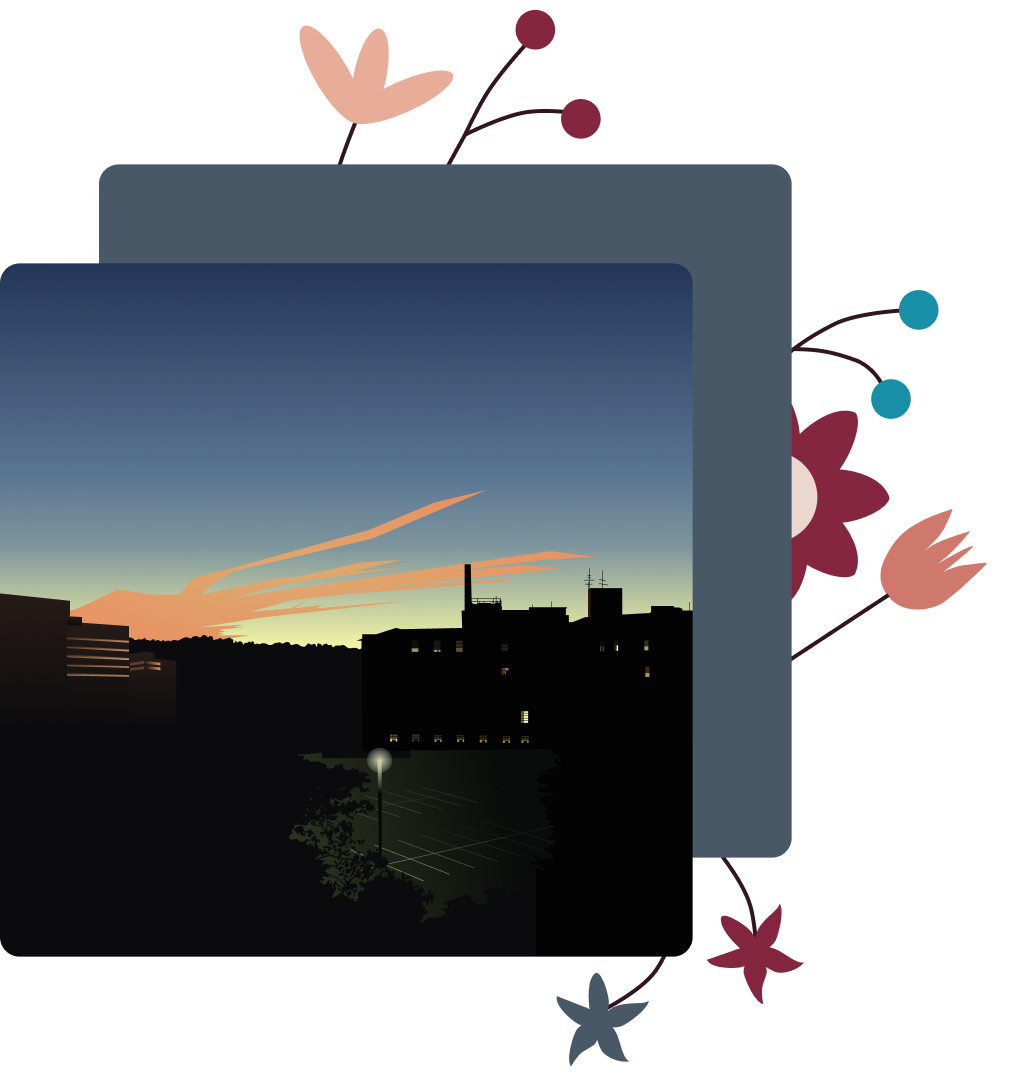
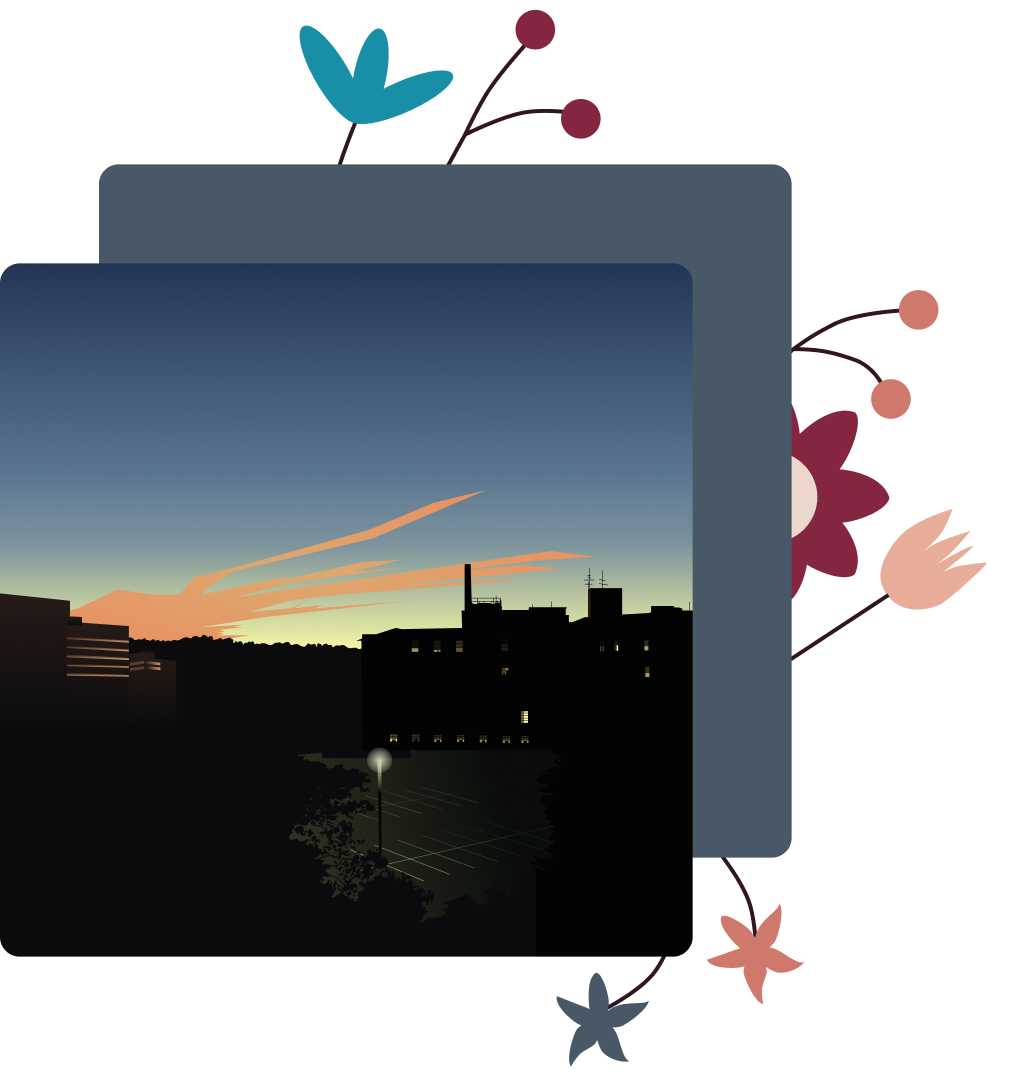
Styling revamp & color palette switched

diff --git a/index.html b/index.html
@@ -5,42 +5,46 @@
   <meta charset="UTF-8" />
   <meta name="viewport" content="width=device-width, initial-scale=1" />
   <title>Anna Nguyen</title>
-
+  <link rel="icon" type="image/png" href="/images/logo.png"/>
   <link rel="stylesheet" type="text/css" href="./styles/style.css" media="all" />
 </head>
 <body>
-  <nav>
-    <a href="index.html"><img src="./images/sig.png" id="logo" /></a>
-    <div class="links">
-      <a href="about.html">ABOUT</a>
-      <a href="resume.html">RESUME</a>
-    </div>
-  </nav>
-
-  <main>
-    <header>
-      <img src="./images/self.png" />
-      <section>
-        <h3>HEY THERE, I'M</h3>
-        <h1 id="name">ANNA NGUYEN</h1>
-        <p>
-          A CS + Design student @ Cornell University 
-          dedicated to empowering myself and others 
-          through the intersections of design, tech, 
-          and socia impact, particularly youth 
-          empowerment despite socioeconomic 
-          disparities in education.
-        </p>
-        <p><a href="mailto:axn3@cornell.edu" id="email">axn3@cornell.edu</a></p>
-        <div class="socials">
-          <a href="https://github.com/axnguyen9"><img src="./icons/github.png" /></a>
-          <a href="https://www.linkedin.com/in/axnguyen/"><img src="./icons/linkedin.png" /></a>
-          <a href="https://medium.com/@axn3"><img src="./icons/medium.png" /></a>
-          <a href="https://www.instagram.com/missbanannamilk/"><img src="./icons/instagram.png" /></a>
+  <div class="clouds-container">
+    <div class="gradient-container">
+      <nav>
+        <a href="index.html"><img src="./images/sig.png" id="logo" /></a>
+        <div class="links">
+          <a href="about.html">ABOUT</a>
+          <a href="resume.html">RESUME</a>
         </div>
-      </section>
-    </header>
+      </nav>
     
+      <header>
+        <img src="./images/self.png" />
+        <section>
+          <h3 class="light-pink">HEY THERE, I'M</h3>
+          <h1 id="name">ANNA NGUYEN</h1>
+          <p class="light-pink">
+            A CS + Design student @ Cornell University 
+            dedicated to empowering myself and others 
+            through the intersections of design, tech, 
+            and socia impact, particularly youth 
+            empowerment despite socioeconomic 
+            disparities in education.
+          </p>
+          <p><a href="mailto:axn3@cornell.edu" id="email" class="light-pink">axn3@cornell.edu</a></p>
+          <div class="socials">
+            <a href="https://github.com/axnguyen9"><img src="./icons/github.png" /></a>
+            <a href="https://www.linkedin.com/in/axnguyen/"><img src="./icons/linkedin.png" /></a>
+            <a href="https://www.instagram.com/missbanannamilk/"><img src="./icons/instagram.png" /></a>
+          </div>
+        </section>
+      </header>
+    </div>
+    <img src="./images/clouds.png" id="clouds" />
+  </div>
+  
+  <main>
     <!-- project cards -->
     <section class="cards">
       <div class="card-container">
@@ -99,7 +103,6 @@
         </div>
       </div>
     </section>
-
   </main>
 </body>
 </html>

diff --git a/about.html b/about.html
@@ -5,38 +5,44 @@
   <meta charset="UTF-8" />
   <meta name="viewport" content="width=device-width, initial-scale=1" />
   <title>Anna Nguyen</title>
-
+  <link rel="icon" type="image/png" href="/images/logo.png"/>
   <link rel="stylesheet" type="text/css" href="./styles/style.css" media="all" />
 </head>
 <body>
-  <nav>
-    <a href="index.html"><img src="./images/sig.png" id="logo" /></a>
-    <div class="links">
-      <a href="about.html" id="current">ABOUT</a>
-      <a href="resume.html">RESUME</a>
+
+  <div class="clouds-container">
+    <div class="gradient-container">
+      <nav>
+        <a href="index.html"><img src="./images/sig.png" id="logo" /></a>
+        <div class="links">
+          <a href="about.html" id="current">ABOUT</a>
+          <a href="resume.html">RESUME</a>
+        </div>
+      </nav>
+
+      <header>
+        <img src="./images/skyline.png" />
+        <section>
+          <h3 class="light-pink">STATUS:</h3>
+          <h1 id="name">STRIVING & THRIVING</h1>
+          <p class="light-pink">
+            Just happy to connect with and help people 
+            thrive while growing as an individual myself ☺
+            Some fun facts about me:
+            <ul class="light-pink">
+              <li>city girl at heart</li>
+              <li>skincare addict</li>
+              <li>fashionista & fashion minor</li>
+              <li>my great-grandma was a part of Vietnamese royalty (supposedly) 🤔</li>
+            </ul>
+          </p>
+        </section>
+      </header>
     </div>
-  </nav>
-
+    <img src="./images/clouds.png" id="clouds" />
+  </div>
+  
   <main>
-    <header>
-      <img src="./images/skyline.png" />
-      <section>
-        <h3>STATUS:</h3>
-        <h1 id="name">STRIVING & THRIVING</h1>
-        <p>
-          Just happy to connect with and help people 
-          thrive while growing as an individual myself ☺
-          Some fun facts about me:
-          <ul>
-            <li>city girl at heart</li>
-            <li>skincare addict</li>
-            <li>fashionista & fashion minor</li>
-            <li>my great-grandma was a part of Vietnamese royalty</li>
-          </ul>
-        </p>
-      </section>
-    </header>
-
     <section>
       <h1>I'M INVOLVED IN:</h1>
       <div class="organizations">

diff --git a/styles/style.css b/styles/style.css
@@ -40,15 +40,21 @@
 }
 
 body {
+  margin: 0;
   background-color: #F5F5F5;
 }
 
 main {
+  margin: 15% 10% 10% 10%;
+}
+
+header {
   margin: 2.5% 10%;
 }
 
 /* typography guide */
 h1 {
+  margin: 1rem 0;
   font-family: 'Karla', sans-serif;
   font-weight: bold;
   font-size: 4rem;
@@ -89,6 +95,11 @@ li {
   font-size: 1.125rem;
 }
 
+.light-pink {
+  color: #ECD7CF;
+}
+/* typography guide end */
+
 /* navbar styling */
 nav {
   font-family: 'Karla', sans-serif;
@@ -96,7 +107,8 @@ nav {
   font-size: 1.5rem;
   color: #32161F;
   height: 20vh;
-  margin: 2.5% 5%;
+  margin: 0 5% 2.5% 5%;
+  padding-top: 2.5%;
   display: flex;
   justify-content: space-between;
   align-items: center;
@@ -107,13 +119,13 @@ nav a, nav img {
 }
 
 .links {
-  width: 50%;
-  text-align: right;
+  width: 25%;
+  display: flex;
+  justify-content: space-between;
 }
 
 .links a {
-  margin: 0 5%;
-  color: #32161F;
+  color: #E7AD99;
 }
 
 .links a:hover {
@@ -127,6 +139,26 @@ nav a, nav img {
 /* navbar styling end */
 
 /* header styling */
+.gradient-container {
+  background: rgb(17,62,106);
+  background: linear-gradient(180deg, rgba(17,62,106,1) 0%, rgba(93,46,78,1) 50%, rgba(132,38,64,1) 80%);
+}
+
+.clouds-container {
+  position: relative;
+}
+
+#clouds {
+  position: absolute;
+  top: 95%;
+  width: 100vw;
+  z-index: 999;
+}
+
+header {
+  padding-bottom: 20%;
+}
+
 header img {
   width: 100%;
 }
@@ -259,7 +291,15 @@ header img {
 
 @media (min-width: 1000px) {
   /* header styling */
+  #clouds {
+    position: absolute;
+    top: 90%;
+    width: 100vw;
+    z-index: 999;
+  }
+
   header {
+    padding-bottom: 10%;
     display: flex;
     flex-wrap: wrap;
     justify-content: space-around;
